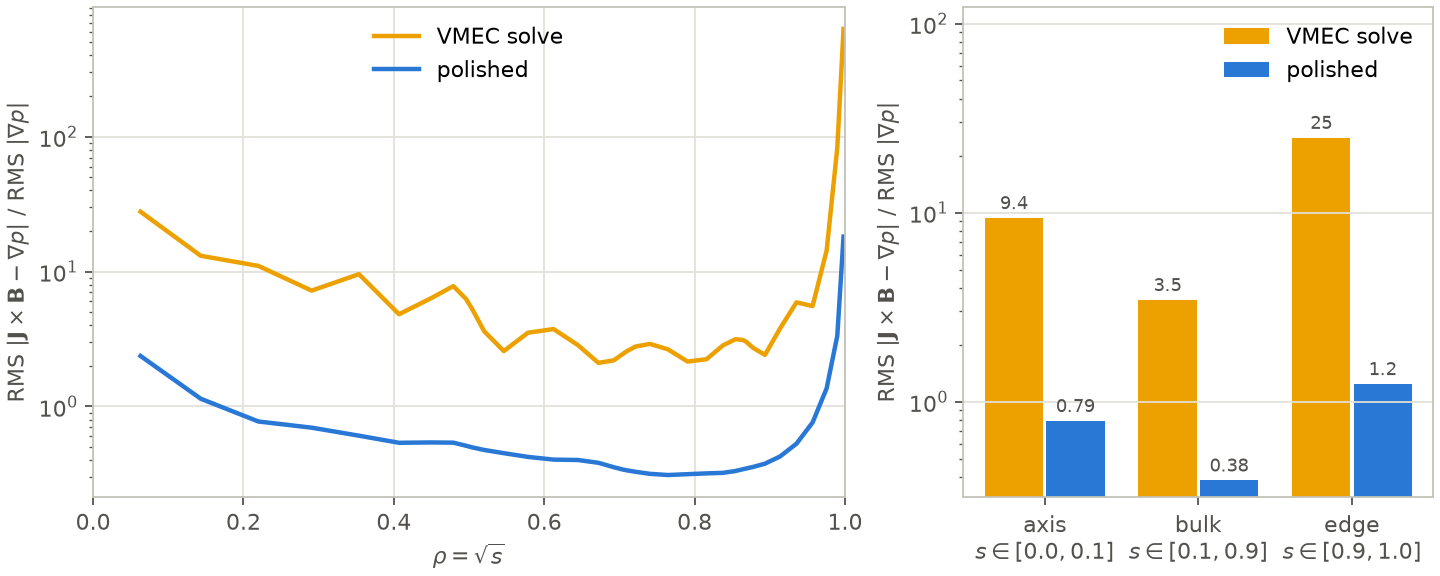
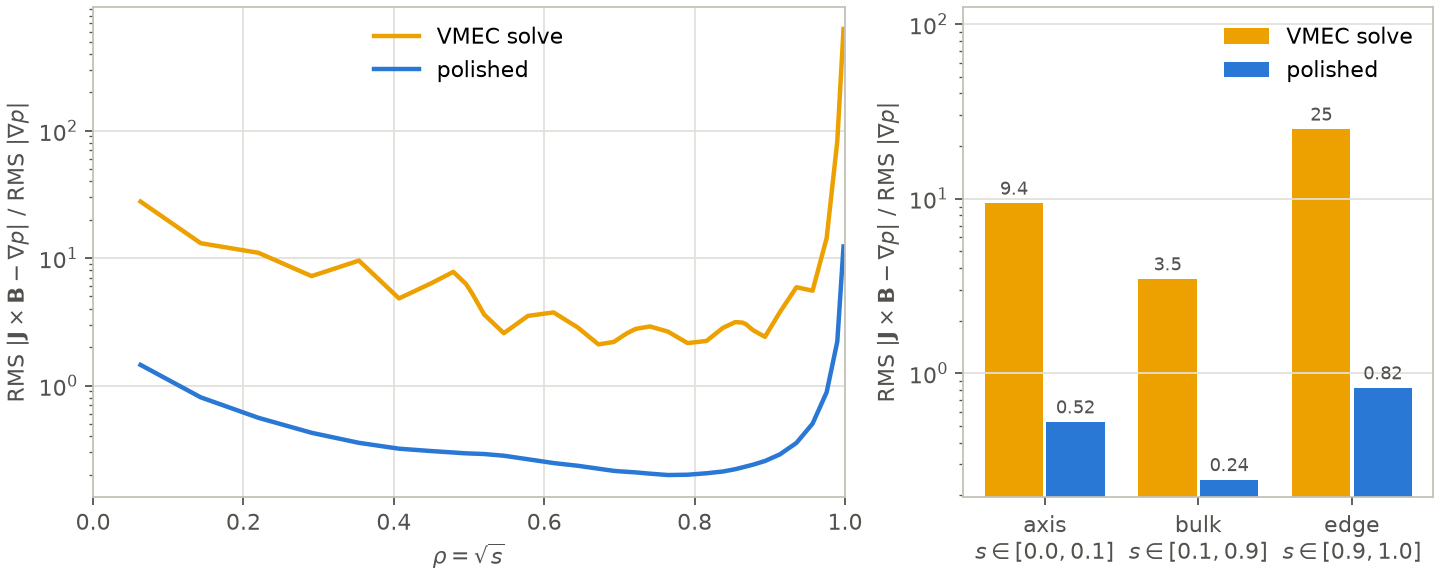
Export checked experimental 3-D current-polish snapshots (#717)
The prescribed-current polish example exports its checked 3-D snapshots; the README figure and the polish tests describe them.

diff --git a/examples/prescribed_current_polishing.py b/examples/prescribed_current_polishing.py
@@ -6,26 +6,30 @@ script lifts the converged state to a high-order radial representation and
 lowers the continuous force with ``polish_prescribed_current``: L-BFGS on the
 weighted force, with the enclosed current ``I(s)`` of the deck imposed through
 an angular-mean Ampere closure for ``chi'(rho)``.  The deck is the finite-beta
-QA of Landreman, Buller and Drevlak (its file keeps a legacy name).
+QA of Landreman, Buller and Drevlak.
 
 It reports the force over pressure-gradient RMS on a finer held-out grid, by
 region, before and after, and saves a bar chart.  This is a forward
 experiment: there is no stationarity certificate (unlike the axisymmetric
-polish), and no WOUT is exported, because the field needs the functional
-``chi(rho)``, not the geometry's ``chipf`` placeholder.
+polish). The experimental WOUT files recompute the current closure on their
+export mesh and keep ``ier_flag = 2`` (not converged). Their profiles are
+checked after reading the files back; this is not a certificate.
 """
 import os
 from dataclasses import replace
 from pathlib import Path
+from tempfile import TemporaryDirectory
 from time import perf_counter
 
+import jax
 import numpy as np
 import vmex
 from _polish_figure import polish_figure
 from vmex.core.polish import (
-    evaluate_prescribed_current_force, make_variational_plan, polish_prescribed_current,
+    evaluate_prescribed_current_force, evaluate_tensorized_strong_force,
+    make_variational_plan, polish_prescribed_current, polished_wout_state,
 )
-from vmex.core.solver import prepare_runtime
+from vmex.core.solver import evaluate_forces, prepare_runtime, resolution_from_input
 from vmex.core.strong_force import lift_high_order_state
 
 INPUT_FILE = Path(__file__).parent / "data" / "input.LandremanPaul2021_QA_beta0p5_bootstrap"
@@ -38,14 +42,16 @@ if os.environ.get("VMEX_EXAMPLES_CI") == "1":
 #   NS, SPANS, STEPS = 241, 8, 3000
 #   ANGLES, CURRENT_ANGLES = (48, 40), (64, 48)
 MPOL, NTOR, NTHETA, NZETA = 5, 4, 32, 24
-NS, SPANS, STEPS = 51, 4, 150
+NS, SPANS, STEPS = 51, 4, 300
 ANGLES, CURRENT_ANGLES = (24, 20), (32, 24)
 PRINT_EVERY = 10
+EXPORT_NS = (129, 257)
 # VMEX_EXAMPLES_CI=1 is the short smoke pass the test suite runs:
 if os.environ.get("VMEX_EXAMPLES_CI") == "1":
     MPOL, NTOR, NTHETA, NZETA = 3, 1, 12, 8
     NS, SPANS, STEPS = 9, 2, 3
     ANGLES, CURRENT_ANGLES = (12, 8), (16, 12)
+    EXPORT_NS = (129,)
 
 ###############################################################################
 # End of input parameters.
@@ -83,13 +89,19 @@ current_grid = make_variational_plan(native, radial_order=9,
 before = evaluate_prescribed_current_force(native, heldout, inp, current_plan=current_grid)
 after = result.samples(heldout)
 regions = (("axis", 0.0, 0.1), ("bulk", 0.1, 0.9), ("edge", 0.9, 1.0))
-ratios = np.zeros((2, len(regions)))
-for j, (label, lo, hi) in enumerate(regions):
-    for i, samples in enumerate((before, after)):
-        weights = native.jacobian_sign * np.asarray(samples.sqrt_g) * heldout.quadrature_weights
-        weights *= ((heldout.rho**2 >= lo) & (heldout.rho**2 < hi))[:, None, None]
-        ratios[i, j] = np.sqrt(np.sum(weights * np.sum(np.asarray(samples.force)**2, axis=-1))
-                               / np.sum(weights * np.asarray(samples.grad_pressure_norm)**2))
+
+def regional_force(samples, plan):
+    """Volume RMS force over pressure-gradient RMS in each declared region."""
+    values = []
+    for _, lo, hi in regions:
+        weights = native.jacobian_sign * np.asarray(samples.sqrt_g) * plan.quadrature_weights
+        weights *= ((plan.rho**2 >= lo) & (plan.rho**2 < hi))[:, None, None]
+        values.append(np.sqrt(np.sum(weights * np.sum(np.asarray(samples.force)**2, axis=-1))
+                              / np.sum(weights * np.asarray(samples.grad_pressure_norm)**2)))
+    return np.asarray(values)
+
+ratios = np.stack([regional_force(samples, heldout) for samples in (before, after)])
+for j, (label, _, _) in enumerate(regions):
     print(f"{label} force/pressure-gradient RMS: {ratios[0, j]:.6g} -> {ratios[1, j]:.6g}")
 print(f"discrete solve {solve_seconds:.2f} s; polish including setup {result.seconds:.2f} s; "
       f"{result.iterations} iterations; optimizer_converged={result.optimizer_converged}")
@@ -112,3 +124,38 @@ ratio_label = r"RMS $|\mathbf{J}\times\mathbf{B}-\nabla p|$ / RMS $|\nabla p|$"
 polish_figure(figure_path, profiles, {"VMEC solve": ratios[0], "polished": ratios[1]}, names,
               ratio_label, ratio_label, bar_format="%.2g", headroom=4.0)
 print(f"Wrote {figure_path}")
+
+### Experimental files: retain the failed convergence status ##################
+
+for ns in EXPORT_NS:
+    export_started = perf_counter()
+    export_input = replace(inp, ns_array=np.array([ns]))
+    state = polished_wout_state(result.geometry, export_input, solve_ns=ns)
+    runtime = prepare_runtime(export_input, resolution_from_input(export_input, ns=ns))
+    _, residual, _ = jax.jit(evaluate_forces)(state, runtime)
+    wout = vmex.wout_from_state(inp=export_input, state=state, converged=False,
+        fsqr=float(residual.fsqr), fsqz=float(residual.fsqz), fsql=float(residual.fsql))
+    with TemporaryDirectory(dir=OUTPUT_DIR) as temporary:
+        candidate = vmex.write_wout(Path(temporary) / f"wout_qa_current_polish_ns{ns}.nc", wout)
+        stored = vmex.read_wout(candidate)
+        reloaded = vmex.high_order_state_from_wout(stored, inp=export_input, degree=5, max_spans=32)
+        basis = np.asarray(reloaded.radial_basis.basis_matrix(np.linspace(0.0, 1.0, ns)))
+        # The NCURR=1 lift recomputes chi. Check the actual file profiles too.
+        fit = lambda values: np.linalg.lstsq(basis, np.asarray(values), rcond=None)[0]  # noqa: E731
+        reloaded = replace(reloaded, pressure=fit(stored.presf),
+            phipf=fit(stored.phipf / (2 * np.pi * native.jacobian_sign)),
+            chipf=fit(stored.chipf / (2 * np.pi * native.jacobian_sign)))
+        check = make_variational_plan(reloaded, radial_order=9,
+            ntheta=2 * ANGLES[0], nzeta=2 * ANGLES[1])
+        readback = regional_force(evaluate_tensorized_strong_force(reloaded, check), check)
+        if not np.isfinite(readback).all() or int(stored.ier_flag) != 2:
+            raise RuntimeError("experimental WOUT readback is invalid")
+        if os.environ.get("VMEX_EXAMPLES_CI") != "1":
+            np.testing.assert_allclose(readback, ratios[1], rtol=0.02, atol=0.0)
+            if np.any(ratios[0] / readback < 10):
+                raise RuntimeError("experimental WOUT did not preserve a 10x force reduction")
+        path = OUTPUT_DIR / candidate.name
+        candidate.replace(path)
+    export_input.to_indata(OUTPUT_DIR / f"input.qa_current_polish_ns{ns}")
+    print(f"Experimental WOUT ns={ns}: force/pressure-gradient RMS {readback}; "
+          f"ier_flag=2, NOT CONVERGED; {perf_counter() - export_started:.2f} s; wrote {path}")

diff --git a/tests/test_polish.py b/tests/test_polish.py
@@ -70,10 +70,11 @@ def test_sample_high_order_state_requires_matching_mode_tables(small_lift):
 
 
 def test_polished_wout_mesh_and_modes_carry_the_native_state():
-    def native(size, breakpoints=None, m_max=3):
+    def native(size, breakpoints=None, m_max=3, n_max=0):
         spans = size - 3 if breakpoints is None else len(breakpoints) - 1
         breaks = np.linspace(0.0, 1.0, spans + 1) if breakpoints is None else np.asarray(breakpoints)
-        return SimpleNamespace(radial_basis=SimpleNamespace(size=size, breakpoints=breaks), m=np.arange(m_max + 1))
+        return SimpleNamespace(radial_basis=SimpleNamespace(size=size, breakpoints=breaks),
+                               m=np.arange(m_max + 1), n=np.full(m_max + 1, n_max))
 
     # Four samples per default reconstruction span, never coarser than the solve.
     assert polished_wout_ns(native(17), solve_ns=31) == 129
@@ -81,10 +82,14 @@ def test_polished_wout_mesh_and_modes_carry_the_native_state():
     # Two samples per coefficient, and two uniform-s samples in the narrowest span.
     assert polished_wout_ns(native(90), solve_ns=31) == 181
     assert polished_wout_ns(native(20, [0.0, 0.01, 0.02, 0.5, 1.0]), solve_ns=31) == 201
-    # MPOL grows only when padded modes exceed it.
+    # Fourier resolutions grow only when padded modes exceed them.
     deck = _small_solovev_input()
     assert polished_wout_input(native(17, m_max=2), deck) is deck
     assert int(polished_wout_input(native(17, m_max=8), deck).mpol) == 9
+    toroidal = polished_wout_input(native(17, m_max=2, n_max=-3), deck)
+    assert (int(toroidal.mpol), int(toroidal.ntor)) == (int(deck.mpol), 3)
+    both = polished_wout_input(native(17, m_max=8, n_max=4), deck)
+    assert (int(both.mpol), int(both.ntor)) == (9, 4)
 
 
 def test_polish_scope_and_configuration():

diff --git a/vmex/core/polish.py b/vmex/core/polish.py
@@ -2032,12 +2032,13 @@ def polished_wout_ns(native: HighOrderEquilibriumState, *, solve_ns: int) -> int
 
 
 def polished_wout_input(native: HighOrderEquilibriumState, source):
-    """The deck whose ``MPOL`` holds every mode of ``native`` (a wider wout)."""
+    """The deck whose ``MPOL`` and ``NTOR`` hold every native Fourier mode."""
 
-    mpol = int(np.max(np.abs(np.asarray(native.m)))) + 1
-    if mpol <= int(source.mpol):
+    mpol = max(int(source.mpol), int(np.max(np.abs(np.asarray(native.m)))) + 1)
+    ntor = max(int(source.ntor), int(np.max(np.abs(np.asarray(native.n)))))
+    if mpol == int(source.mpol) and ntor == int(source.ntor):
         return source
-    return source.change_resolution(mpol=mpol, ntor=int(source.ntor))
+    return source.change_resolution(mpol=mpol, ntor=ntor)
 
 
 def polished_wout_state(native: HighOrderEquilibriumState, source, *, solve_ns: int):

diff --git a/README.md b/README.md
@@ -541,14 +541,17 @@ takes about a minute.
   metrics with it.
 
 **Stellarator** (finite-beta QA, prescribed toroidal current, no certificate yet).
-`python examples/prescribed_current_polishing.py` takes 46 s on a laptop (9 s for the solve, 16 s
-for the polish).
+`python examples/prescribed_current_polishing.py` runs 300 L-BFGS iterations at `ns = 51`,
+`mpol = 5`, `ntor = 4`, then exports and reads back experimental WOUT files.
 
 <img src="docs/_static/figures/readme_polish_stellarator.webp" alt="Force over pressure gradient of the finite-beta QA stellarator before and after polishing">
 
-- The RMS force relative to the pressure gradient falls 12× near the axis, 9× in the bulk and
-  20× at the edge on a held-out grid.
-- L-BFGS stops at |grad| = 4.6e-4 after 150 iterations: a forward result, not a converged one.
+- The RMS force relative to the pressure gradient falls 18× near the axis, 14× in the bulk and
+  30× at the edge on a held-out grid, to 0.52, 0.24 and 0.82: substantial force errors remain.
+- L-BFGS stops at |grad| = 1.9e-4 after 300 iterations: a forward result, not a converged one.
+- Experimental WOUT files at `ns = 129, 257` carry `ier_flag = 2`, their actual residuals and input
+  decks. Read back, they keep a 10x force reduction within 2% of the native ratios. They have no
+  stationarity, continuum or implicit-gradient certificate; reject them where convergence is required.
 
 `vmex.core.strong_force.traced_lift` is the differentiable form of the lift, for force-balance
 certificates inside gradient-based objectives.
